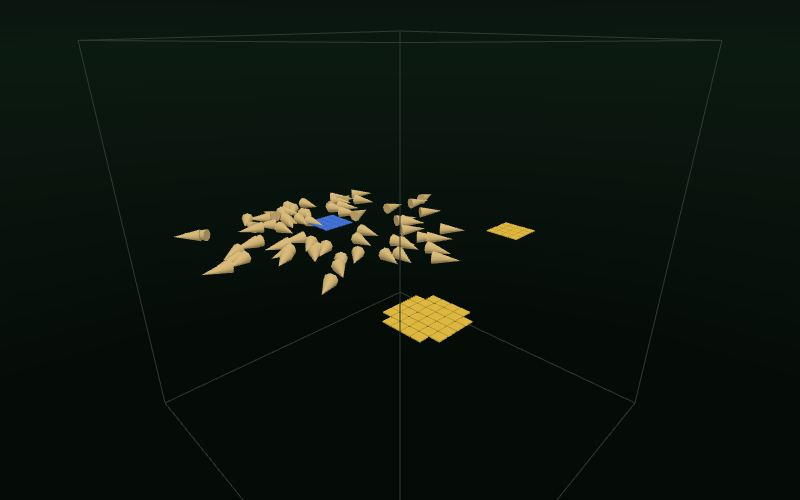
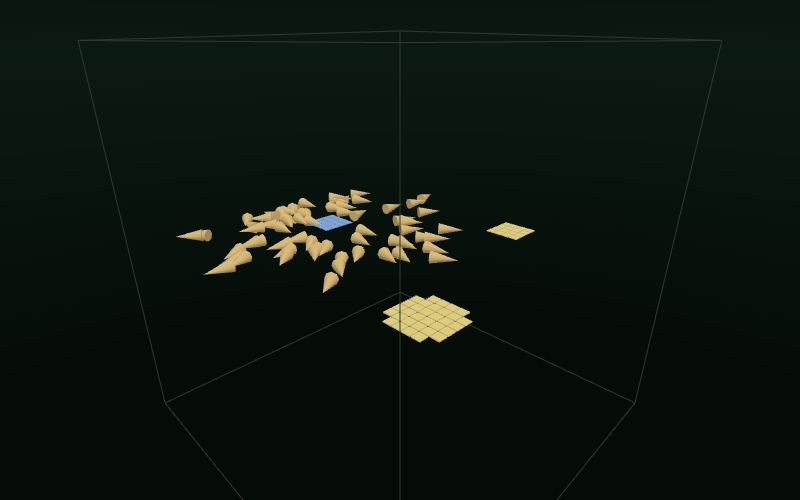
Examples use display; scenes lose show/color/palette/state/fill; docs rewritten around init/act/think/display
Ants no longer fakes its look with state fields: the nest and food regions are in init and the colors in displayAll. docs/script-api.md gains the hooks table and the configuration-versus-code rule; x-and-xall.md records state-from-init and think-returns-state; SPEC.md notes state is no longer declared in scenes.

Claude-Session: https://claude.ai/code/session_01Uuc6dwJ5Bjk5VjRCLHRDrp

diff --git a/examples/ants/ants.js b/examples/ants/ants.js
@@ -41,16 +41,27 @@ export const Ant = {
   },
 }
 
+// the ground: where the nest and the food are, and the scent that spreads over it
+const FOOD = [[11, 0, 8, 3], [5, 0, -13, 2.5]] // x, y, z, radius of each patch
+const NEST_RADIUS = 2.5
+
 export const Ground = {
-  actAll({ scent, food, nest }, p) {
+  init({ at }, p, ctx) {
+    const inside = (c, r) => at.minus(ctx.vec(c[0], c[1], c[2])).length() <= r
+    return { food: FOOD.some((f) => inside(f, f[3])) ? 5 : 0, scent: 0, nest: inside(NEST, NEST_RADIUS), delivered: 0 }
+  },
+
+  // what to draw: the nest blue, food gold, scent green (brighter when stronger); bare ground is not drawn
+  displayAll({ scent, food, nest }, p, ctx) {
+    const look = food.gt(0).where(1, scent.gt(0.05).where(scent.div(4).min(1).div(3).add(1 / 3), -1))
+    const shown = nest.where(0, look)
+    return { visible: shown.ge(0), color: ctx.colors.rampField(['#4f86f7', '#2f5a3c', '#7be495', '#ffd34a'], shown.max(0)) }
+  },
+
+  actAll({ scent, food }, p) {
     // scent spreads into neighbors, then evaporates a little
     const mixed = scent.zip(scent.neighborAverage(), (s, around) => (s + (around - s) * p.spread) * p.evaporation)
-    const left = food.map((f) => Math.max(0, f))
-
-    // what to draw: food is gold, scent is green (brighter when stronger), the nest is blue
-    const look = mixed.zip(left, (s, f) => (f > 0 ? 1 : s > 0.05 ? 1 / 3 + Math.min(1, s / 4) / 3 : -1))
-    const shown = look.zip(nest, (l, n) => (n ? 0 : l))
-    return { scent: mixed, food: left, look: shown.map((l) => Math.max(0, l)), mark: shown.map((l) => (l >= 0 ? 1 : 0)) }
+    return { scent: mixed, food: food.max(0) }
   },
 }
 

diff --git a/packages/core/src/sim.ts b/packages/core/src/sim.ts
@@ -149,7 +149,7 @@ export class Sim {
       if (ctrl.initAll) {
         const out = ctrl.initAll({ count: 1, probe: true }, this.params, ctx) as Record<string, ArrayLike<unknown>> | undefined
         values = Object.fromEntries(Object.entries(out ?? {}).map(([k, v]) => [k, v && typeof v === 'object' ? (v as { data?: ArrayLike<unknown> }).data?.[0] ?? v[0] : v]))
-      } else values = initResult(ctrl.init!({ index: 0, count: 1, x: 0, y: 0, z: 0 }, this.params, ctx))
+      } else values = initResult(ctrl.init!({ index: 0, count: 1, x: 0, y: 0, z: 0, at: new Vec3(0, 0, 0) }, this.params, ctx))
     } catch {
       return null
     }

diff --git a/examples/life2d/life.js b/examples/life2d/life.js
@@ -13,6 +13,11 @@ export default {
     return { alive: Float32Array.from({ length: count }, () => (ctx.random() < p.density ? 1 : 0)), age: new Float32Array(count) }
   },
 
+  // the same look as the 3D version, for every cell at once
+  displayAll({ alive, age }, p, ctx) {
+    return { visible: alive, color: ctx.colors.rampField(['#ff0d0d', '#0dff0d'], age.div(30)) }
+  },
+
   actAll({ alive, age }) {
     const crowd = alive.neighborSum()
     // born with exactly 3 neighbors, or alive with exactly 2 (comparisons give 1 or 0, so they combine like switches)

diff --git a/examples/epidemic/contagion.js b/examples/epidemic/contagion.js
@@ -19,6 +19,11 @@ export default {
     return { status, timer: new Float32Array(count), present: new Float32Array(count).fill(1) }
   },
 
+  // susceptible blue, infected red, recovered green (on the grid, `present` says which cells are drawn)
+  displayAll({ status, present }, p, ctx) {
+    return { visible: present, color: ctx.colors.rampField(['#6aa7ff', '#ff5b5b', '#7bd88f'], status.div(2)) }
+  },
+
   act({ self, neighbors }, p, ctx) {
     if (self.status === 0) {
       const sickNeighbors = neighbors.status.filter((s) => s === 1).length

diff --git a/examples/market/market.js b/examples/market/market.js
@@ -20,6 +20,11 @@ export default {
     return { cash: 60, goods: 2, ask: 10, bought: 0, used: 0 }
   },
 
+  // color by asking price: cheap blue, middling yellow, dear red
+  display({ self }, p, ctx) {
+    return { color: ctx.colors.ramp(['#4da3ff', '#ffd24d', '#ff5a4d'], self.ask / 40) }
+  },
+
   act({ self, neighbors }, p, ctx) {
     const producer = self.row % 3 === 0
     const makes = producer && ctx.tick % p.produceEvery === 0 ? 1 : 0

diff --git a/examples/life3d/life.js b/examples/life3d/life.js
@@ -16,6 +16,11 @@ export default {
     return { alive: ctx.random() < p.density ? 1 : 0, age: 0 }
   },
 
+  // only live cells are drawn: young ones red, old ones green
+  display({ self }, p, ctx) {
+    return { visible: self.alive, color: ctx.colors.ramp(['#ff0d0d', '#0dff0d'], self.age / 20) }
+  },
+
   act({ self, neighbors }) {
     const crowd = neighbors.alive.sum() // how many neighbors are alive
 

diff --git a/docs/script-api.md b/docs/script-api.md
@@ -1,6 +1,20 @@
 # Scene and script reference
 
-A project is two files: `scene.json` (data: what exists and how it looks) and one script (behavior: how things decide what to do). The workbench shows both, runs them live, and hot-reloads edits. This file is also what the LLM assistant is given, so keep it accurate.
+A project is two files: `scene.json` (the setup and the knobs: what sets of things exist, how many, the world they live in, the sliders (`params`), which measurements to chart, which models to load) and one script (what each thing is, does and looks like). The workbench shows both, runs them live, and hot-reloads edits. This file is also what the LLM assistant is given, so keep it accurate.
+
+**Where a thing goes.** If a person would tweak it while the simulation runs, sweep it, or search over it, it is configuration: put it in the scene, usually as a `param`. If it changes what an entity is or does, it is code: put it in the script. A grid's size and spacing are configuration; the starting density is a param that `init` reads; the rule, the starting state and the colors are code.
+
+**The hooks.** A script exports a controller (an object) with these functions, each for one entity, and optionally an `All` form for a whole set at once:
+
+| hook | when | returns |
+|---|---|---|
+| `init(self, p, ctx)` / `initAll` | once per entity, when it is made | its starting state: `{ alive: 1, age: 0 }` (free agents may add `position` and `velocity`). The fields `init` returns are the entity's state; no declaration needed |
+| `act(obs, p, ctx)` / `actAll` | every tick | what it does now: `{ steer, state, add, exchange }` (the `All` form returns whole new fields) |
+| `think(obs, p, ctx)` / `thinkAll` | every `think.every` ticks; may be slow and async | state to write, such as `{ goal: 'go east' }`, which `act` then reads as `self.goal` |
+| `display({ self }, p, ctx)` / `displayAll` | when a frame is drawn; read-only | how it looks: `{ visible, color }` |
+
+The per-entity form is the readable one and suits up to tens of thousands of entities. The `All` form gets and returns whole fields (columns) instead, runs without a function call per entity, and is for big grids and networks. It has limits: `Field` arithmetic only, single-number state, and no per-entity effects (steering, trades, resets). See `docs/decisions/x-and-xall.md`. `decide` is the old name of `act`, and `update` and `decideAll` of `actAll`; they still work.
+
 
 ## scene.json
 
@@ -53,7 +67,7 @@ Agents live in continuous 3D space. Each tick every agent's `act` is called and 
 "spawn": { "box": [[-5, 0, -5], [5, 0, 5]] }                        // or anywhere inside a box
 ```
 
-For full control, the script may export an `init` function that runs for each new entity: `init({ index, count }, p, ctx)` returns `{ position, velocity, state }`, for example `{ position: ctx.vec(index * 2, 0, 0) }` to line them up. `init` wins over `spawn`.
+For full control, the script's `init` runs for each new entity: `init({ index, count }, p, ctx)` returns `{ position, velocity, ...state }`, for example `{ position: ctx.vec(index * 2, 0, 0), energy: 10 }` to line them up and give each some energy. `init` wins over `spawn`.
 
 **Fences and reset.** A set may have a `fence`: `"fence": { "size": 30, "floor": -20 }` (`size` is the half-width of a box around the origin, `floor` the lowest height allowed). A fence changes nothing by itself. When an entity crosses it, the script's `onLeave({ self }, p, ctx)` runs once, and the usual thing to do there is `self.reset()`, which puts that entity back at its start (same rules as a new one) at the end of the tick. `self.outside` tells you whether it is beyond the fence right now. `self.reset()` also works anywhere else: in `act`, say, when an ant runs out of energy.
 
@@ -64,13 +78,13 @@ export default {
 }
 ```
 
-**Per-agent state (memory, brains).** Free agents may declare `state`: extra numbers each agent carries. Say what a field starts as and its type follows: `"energy": 10` is a number, `"hungry": false` a boolean, `"mood": "calm"` text. An object makes an array of numbers and says how it starts: `"weights": { "length": 108, "init": { "normal": 0.7 } }`. To spell a type out, use `"int"`, `"float"`, `"boolean"` or `"string"` (`{ "type": "int", "init": 3 }`) (`init` can be a number, `{ "normal": spread }` or `{ "uniform": [low, high] }`, drawn from the seeded generator). In `act`, `self.energy` is a number (or boolean, or text, as declared) and `self.weights` is a read-only array. To change state, return it: `{ steer, state: { energy: self.energy - 1, memory: [..5 numbers..] } }`. Like everything else, new state is applied after all agents have decided. State is saved by snapshots and copied by forks.
+**State (memory, brains).** An entity carries whatever state its `init` returns: `init(self, p, ctx) { return { energy: 10, hungry: false, mood: 'calm', weights: Float32Array.from({ length: 108 }, () => 0.7 * ctx.normal()) } }`. A number is a number, `true`/`false` a boolean, text is text, and an array of numbers is a field of that length. In `act`, `self.energy` is the value (and `self.weights` a read-only array). To change state, return it: `{ steer, state: { energy: self.energy - 1, memory: [..5 numbers..] } }`; new state is applied after every entity has acted. State is saved by snapshots and copied by forks. `ctx.random()` and `ctx.normal()` (a normal draw, spread 1) are seeded, so a scene and seed always start the same way. The older way still works: a `"state"` block in the scene (`"energy": 10`, or `{ "length": 108, "init": { "normal": 0.7 } }`), and it is also how to ask for a smaller number type on a very large grid (`"alive": "u8"` uses one byte a cell instead of eight). A field in the scene's `state` wins over the same name from `init`. If a script edit changes which fields `init` returns, the workbench restarts the simulation.
 
 `ctx.mlp([11, 5, 8])` makes a small neural network (tanh layers) whose `run(weights, inputs)` returns the outputs; the weights for that shape are 11×5+5 + 5×8+8 = 108 numbers. See `examples/neural`.
 
 **Choosing a behavior per agent.** A set runs one controller (its `type`, or `export default`). To let each agent pick, declare a text state field called `controller` (`"state": { "controller": "" }`): an agent whose field names a script export (`export const flee = {...}`) runs that one, and an empty field uses the set's own. A controller can switch itself by returning `state: { controller: 'flee' }`, and in the inspector the controller menu then sets the field for the one entity you clicked instead of the whole set. Naming an export that does not exist is reported once.
 
-**Trained models (ONNX).** A scene can name models: `"models": { "policy": { "url": "policy.onnx" } }` (`url` is a path next to the scene, a full URL, or a Hugging Face file, `hf:owner/repo/path/model.onnx`, with `@revision` after the repo name to pin one; `"device": "webgpu"` tries the GPU first). A controller runs one from `think`, or from `thinkAll(agents, p, ctx)`, which is called once for all the entities of its set that are due, so a whole crowd is one call: `const out = await ctx.model('policy').runBatch(agents.map(({ self }) => [self.x, self.z]))` gives one row of outputs per agent; return one decision per agent from `thinkAll` and read it as `self.decision` in `act`. Set `"think": { "every": 1 }` to run it every tick; the workbench's lockstep mode waits for it. A model takes one input of shape `[batch, width]`. A `url` of the form `ws://localhost:8765` is not a file but a process on a WebSocket (a Python policy server or trainer, `examples/remote-policy`): it gets the same batches and answers the same way, and the sets using it are marked not repeatable. Decisions are logged, so a run can be replayed without the model. See `examples/onnx-policy` and `docs/decisions/inference.md`.
+**Trained models (ONNX).** A scene can name models: `"models": { "policy": { "url": "policy.onnx" } }` (`url` is a path next to the scene, a full URL, or a Hugging Face file, `hf:owner/repo/path/model.onnx`, with `@revision` after the repo name to pin one; `"device": "webgpu"` tries the GPU first). A controller runs one from `think`, or from `thinkAll(agents, p, ctx)`, which is called once for all the entities of its set that are due, so a whole crowd is one call: `const out = await ctx.model('policy').runBatch(agents.map(({ self }) => [self.x, self.z]))` gives one row of outputs per agent; return one state object per agent from `thinkAll` (`{ dx, dz }`, fields `init` declared) and read it as `self.dx` in `act`. Set `"think": { "every": 1 }` to run it every tick; the workbench's lockstep mode waits for it. A model takes one input of shape `[batch, width]`. A `url` of the form `ws://localhost:8765` is not a file but a process on a WebSocket (a Python policy server or trainer, `examples/remote-policy`): it gets the same batches and answers the same way, and the sets using it are marked not repeatable. Decisions are logged, so a run can be replayed without the model. See `examples/onnx-policy` and `docs/decisions/inference.md`.
 
 **Cameras (for vision models).** A sensor of type `camera` gives a controller a small picture of what is around it, as `obs.<name>`: `"sensors": [{ "type": "camera", "name": "view", "size": 24, "radius": 18 }]` (`size` is pixels per side, default 32; `radius` is how far it sees, from the center to the edge). The picture is top-down and turned so that up is the way the agent is heading (north when it is still): every agent in range is a dot in its set's color, the agent itself is white with a tick showing forward, and ground outside the world's bounds is dark. It is drawn from the simulation's state when a script reads it, so it costs nothing when unused and is the same in every run. A picture has `width`, `height`, `get(x, y)` and `toPng()`. Show it to a model from `think`: `await ctx.ask('where is the food?', { json: true, images: [obs.view] })`. See `examples/vlm-scouts`.
 
@@ -86,18 +100,25 @@ export default {
     "spacing": 1.2,                       // distance between cell centers
     "edges": "wrap",                      // "wrap" (opposite edges touch) or "dead" (nothing beyond the edge)
     "neighborhood": "moore",              // "moore" (26 neighbors) or "von-neumann" (6)
-    "show": "alive",                      // state field whose non-zero cells are drawn
-    "color": "age",                       // optional state field that tints cells
-    "colorMax": 20,                       // value that maps to the end of the color range (low = red, high = green)
     "fade": 0                             // optional: ease cells in and out over this fraction of a tick (0 = instant, 1 = a whole tick)
   },
-  "state": { "alive": 0, "age": 0 },   // per-cell fields; the starting value gives the type (numbers, true/false, text)
-  "fill": { "field": "alive", "density": "$density", "within": 1 },  // random start: density of cells, within the central fraction (default 1 = everywhere)
   "controller": "life.js"
 }
 ```
 
-Grid shape, fill, and seed only take effect when the simulation is reset. Params (rule numbers, etc.) apply live.
+The cells' state, starting values and look come from the script: `init({ index, count, x, y, z, at }, p, ctx)` returns a cell's starting state (`x, y, z` is its place in the grid and `at` its place in the world as a vector, so a region is `at.minus(centre).length() < radius`; `initAll({ count }, p, ctx)` returns one array per field for every cell at once), and `display` / `displayAll` say how it looks:
+
+```js
+export default {
+  init(self, p, ctx) { return { alive: ctx.random() < p.density ? 1 : 0, age: 0 } },
+  act({ self, neighbors }) { /* ... */ },
+  display({ self }, p, ctx) { return { visible: self.alive, color: ctx.colors.ramp(['#ff0d0d', '#0dff0d'], self.age / 20) } },
+}
+```
+
+`visible` says whether a cell is drawn (every cell is by default), and `color` is `'#rrggbb'`, `[r, g, b]` between 0 and 1, or a `ctx.colors` helper: `ctx.colors.ramp(stops, t)` (a color along a list of stops, `t` from 0 to 1), `ctx.colors.hsl(h, s, l)`, `ctx.colors.hex('#48f')`. For big grids use `displayAll({ alive, age }, p, ctx)`, which returns whole fields: `{ visible: alive, color: ctx.colors.rampField(stops, age.div(20)) }`. `display` only reads, so it cannot affect the run; it is called when a frame is drawn, not every tick. Free agents and network nodes use `color` too (`visible` is only honored on lattice cells). The older scene settings (`show`, `color`, `colorMax`, `palette`, `fill`, `state`) still work where a script gives no `display`/`init`.
+
+Grid shape and seed only take effect when the simulation is reset. Params (rule numbers, etc.) apply live.
 
 ### Entity set: network of nodes
 
@@ -110,13 +131,13 @@ Grid shape, fill, and seed only take effect when the simulation is reset. Params
     "degree": 6,                          // average links per node
     "rewire": 0.08,                       // small worlds: share of links rewired at random
     "layout": "force",                    // how nodes are placed for drawing: "force", "circle" or "sphere"
-    "radius": 24,                         // size of the drawn layout
-    "color": "status", "colorMax": 2, "palette": ["#6aa7ff", "#ff5b5b", "#7bd88f"]   // tint nodes by a state field
+    "radius": 24                          // size of the drawn layout
   },
-  "state": { "status": 0, "timer": 0 },
-  "fill": { "field": "status", "value": 1, "count": 3 }   // exactly 3 random nodes start with status 1
+  "controller": "contagion.js"
 }
 ```
+
+Starting state is the script's `init` (a node at a time) or `initAll` (all at once: `initAll({ count }, p, ctx)` returns an array per field, so "exactly 3 random nodes start infected" is a few lines in the script), and the colors are `display` / `displayAll`, as for lattices.
 
 A node's `neighbors` are the nodes it is linked to. `act` works exactly as it does for lattice cells: it reads `self` and `neighbors` (`neighbors.status` is a list of numbers) and returns the node's **new state**, applied for everyone at once. That is why one script can run on a grid and on a graph (see `examples/epidemic` and `examples/epidemic-grid`). `self.degree` is the number of links. Positions come from the layout and are only for drawing.
 
@@ -222,7 +243,7 @@ export const metrics = {
 
 `self` has `x, y, z` (grid coordinates), `position` (a vector), and every state field as a number: `self.alive`.
 
-**Big grids: `actAll` instead of `act`.** Every hook has a per-entity form and may have a whole-set form named with `All` (`init`/`initAll`, `act`/`actAll`, `think`/`thinkAll`, `display`/`displayAll`; see `docs/decisions/x-and-xall.md`). `decide` is the old name of `act` and still works. The `All` form is faster but limited: whole fields in and out, `Field` arithmetic only, single-number state, no per-entity effects. A script may export `actAll(fields, params)` instead of `act` (the old names `decideAll` and `update` still work). It runs once per tick, gets every state field as a whole (`{ alive, age }`) and returns the new fields. Fields have `neighborSum()`, `neighborAverage()`, `neighborMax()`, arithmetic and comparisons that take a number or another field (`add`, `sub`, `mul`, `div`, `min`, `max`, `eq`, `ne`, `lt`, `le`, `gt`, `ge`, `and`, `or`, `not`, `clamp`, and `where(a, b)` to pick between two values), `map(fn)`, `zip(other, fn)`, `sum()` and `average()`; each makes a new field and none changes the original. Prefer the arithmetic over `map`/`zip` on big grids: it runs without a function call per cell, and a chain of it is worked out in one pass. Use it for grids above about 50,000 cells (a 1000×1000 flat grid works). A lattice with a dimension of 1, like `[200, 200, 1]`, is flat and its cells have no neighbors along that axis. Networks take `actAll` too: a field's `neighborSum()`, `neighborAverage()` and `neighborMax()` follow the links, however many each node has (a hub with hundreds of links is fine), and only single-number state fields are passed in.
+**Big grids: `actAll` instead of `act`.** A script may export `actAll(fields, params)` instead of `act` (the old names `decideAll` and `update` still work). It runs once per tick, gets every state field as a whole (`{ alive, age }`) and returns the new fields. Fields have `neighborSum()`, `neighborAverage()`, `neighborMax()`, arithmetic and comparisons that take a number or another field (`add`, `sub`, `mul`, `div`, `min`, `max`, `eq`, `ne`, `lt`, `le`, `gt`, `ge`, `and`, `or`, `not`, `clamp`, and `where(a, b)` to pick between two values), `map(fn)`, `zip(other, fn)`, `sum()` and `average()`; each makes a new field and none changes the original. Prefer the arithmetic over `map`/`zip` on big grids: it runs without a function call per cell, and a chain of it is worked out in one pass. Use it for grids above about 50,000 cells (a 1000×1000 flat grid works). A lattice with a dimension of 1, like `[200, 200, 1]`, is flat and its cells have no neighbors along that axis. Networks take `actAll` too: a field's `neighborSum()`, `neighborAverage()` and `neighborMax()` follow the links, however many each node has (a hub with hundreds of links is fine), and only single-number state fields are passed in.
 
 ```js
 export default {
@@ -235,9 +256,9 @@ export default {
 
 ### Slow thinking: asking a language model
 
-A controller may also have an async `think(obs, p, ctx)`, run for each entity every `think.every` ticks (set on the entity set: `"think": { "every": 120 }`). It looks around, may `await ctx.ask(prompt, { json: true })` (a language model, reached through the local server and `ANTHROPIC_API_KEY`; `{ images: [obs.view] }` shows it a camera picture), and returns a decision of any JSON shape. The fast `act` reads it as `self.decision` (undefined until the first answer). In the workbench thinking runs beside the clock, so a slow model never stalls the sim; answers land when they arrive. A bar above the view appears for scenes that think: switch to **lockstep** (the clock waits for every answer before each tick, so answers land on the same ticks every run), **Save log** to download every decision, and **Replay log…** to restart and play a saved log back without calling the model.
+A controller may also have an async `think(obs, p, ctx)`, run for each entity every `think.every` ticks (set on the entity set: `"think": { "every": 120 }`). It looks around, may `await ctx.ask(prompt, { json: true })` (a language model, reached through the local server and `ANTHROPIC_API_KEY`; `{ images: [obs.view] }` shows it a camera picture), and returns what it decided as state: `return { dx: 1, dz: -1 }` writes those fields (declared by `init`, which also gives them a first value) and the fast `act` reads them as `self.dx`. (A result that is not state is kept as `self.decision`, the older way.) In the workbench thinking runs beside the clock, so a slow model never stalls the sim; answers land when they arrive. A bar above the view appears for scenes that think: switch between **async** (the simulation keeps running and answers land when they arrive) and **wait** (the clock waits for every answer before each tick, so answers land on the same ticks every run), **Save log** to download every decision, and **Replay log…** to restart and play a saved log back without calling the model.
 
-Every decision is logged with the tick it took effect (`sim.decisionLog`). `sim.replay(log)` reruns without the model: each decision lands on the same tick, so the run is identical. See `examples/llm-wanderers`.
+Every answer is logged with the tick it took effect (`sim.decisionLog`), whatever its shape. `sim.replay(log)` reruns without the model: each decision lands on the same tick, so the run is identical. See `examples/llm-wanderers`.
 
 ### Creatures
 

diff --git a/docs/decisions/x-and-xall.md b/docs/decisions/x-and-xall.md
@@ -12,9 +12,19 @@ The hooks are `init`, `act`, `think` and `display`. `act` was `decide`; the old 
 
 | per entity | whole set | status |
 |---|---|---|
+| `init` | `initAll` | done for lattices, networks and free agents (`initAll` for lattices and networks) |
 | `act` (was `decide`) | `actAll` (was `decideAll`, before that `update`) | `actAll` for lattices and networks; the old names stay as aliases. Free agents: not yet |
-| `think` | `thinkAll` | done (batched model calls) |
-| `init` | `initAll` | `init` for free agents; lattices and networks next; `initAll` after |
-| `display` | `displayAll` | planned (SPEC.md section on display) |
+| `think` | `thinkAll` | done (batched model calls); returns state |
+| `display` | `displayAll` | done for lattice cells, network nodes and free agents (`displayAll`: lattices and networks); `visible` only on lattice cells |
+
+## State comes from `init`
+
+A set's state is the fields its `init` returns, with kind and length taken from the value (number, boolean, text, array of numbers). The scene needs no `state` block and no type words. To find the fields before the columns exist, the sim calls `init` (or `initAll` with a count of 1) once on a throwaway random generator, so the run's own random numbers are untouched. An explicit `state` in the scene still works and wins; it is also the way to ask for a small number type (`"u8"`) on a very large grid, where eight bytes a cell would cost memory. If a script edit changes which fields `init` returns, the workbench restarts the sim. Rejected: running `act` once to learn the output shape, because `act` reads `self.alive` before it has ever returned anything, and a `0` cannot be told from `false`.
+
+`think` follows the same idea: it returns state. An object whose keys are all state fields is written to them (logged and replayed as before); any other result is kept as `self.decision`, the older way.
+
+## Configuration and code
+
+The scene is the setup and the knobs (what sets exist, how many, the world, `params`, metrics, models). The script is what each thing is (`init`), does (`act`, `think`) and looks like (`display`). Test: if a person would tweak it while it runs, sweep it or search over it, it is configuration (usually a `param`); if it changes what an entity is or does, it is code. The old scene fields `state`, `fill`, `lattice.show/color/colorMax/palette` and `network.color/colorMax/palette` still work for scripts that give no `init` or `display`.
 
 **Consequences.** One rule to learn and to put in the docs and the assistant's prompt. `update` is deprecated but kept so existing scripts keep running. A "this set is big, use `xAll`" hint can be given by the workbench for any hook.

diff --git a/MILESTONES.md b/MILESTONES.md
@@ -26,6 +26,7 @@ Also built, outside the original list:
 
 - The site: a home page with live demos, a gallery with pictures and tags, share links (held until you approve the script), a JSON tree editor, a timeline scrubber, a thinking bar, and a non-repeatable flag (`docs/decisions/site.md`).
 - Trained models and other processes as controllers: ONNX files, Hugging Face addresses, and Python servers over WebSockets, all through one `Model` interface with logged, replayable decisions (`docs/decisions/inference.md`, `remote.md`); a camera sensor for vision models.
+- Scripts now carry what a thing is and looks like: hooks `init`, `act`, `think`, `display` with `All` forms for big sets, state inferred from `init`, `think` returning state, colors from `display` (`docs/decisions/x-and-xall.md`). The scene is down to setup and knobs.
 - Relation tables (`ctx.relations`), per-agent controller choice, whole-network `update` rules, glTF part visuals, an MJCF importer.
 - A standard library in its own package (`packages/stdlib`) with generated docs, and an in-app Docs tab.
 - `spawn`, `init`, fences with `onLeave`, and `self.reset()`; inferred state types (number, boolean, string); several entity sets per scene; controllers chosen by named export.

diff --git a/docs/stdlib.md b/docs/stdlib.md
@@ -174,6 +174,46 @@ The closest agent, or null if the group is empty.
 isEmpty(): boolean
 ```
 
+## Rgb
+
+A color as red, green and blue between 0 and 1.
+
+## Colors
+
+Colors for `display`: a number turned into a color, or a whole field of numbers into a color per cell.
+
+### `Colors.hex`
+
+```ts
+static hex(c: string): Rgb
+```
+
+`'#4f86f7'` or `'#48f'` as red, green and blue between 0 and 1. Anything else is white.
+
+### `Colors.hsl`
+
+```ts
+static hsl(h: number, s: number, l: number): Rgb
+```
+
+Hue, saturation and lightness, each between 0 and 1 (hue goes around the color wheel).
+
+### `Colors.ramp`
+
+```ts
+static ramp(stops: string[], t: number): Rgb
+```
+
+Where `t` (0 to 1) falls along a list of colors, blending between neighbors: `Colors.ramp(['#4f86f7', '#7be495'], age / 20)`.
+
+### `Colors.rampField`
+
+```ts
+static rampField(stops: string[], t: Field | ArrayLike<number>):
+```
+
+`ramp` for a whole field at once: a color for every cell, for `displayAll`.
+
 ## NeighborTable
 
 For each cell, the rows of its neighbors: `count[row]` of them, starting at `start[row]` in `nbr` (a network, where degrees

diff --git a/SPEC.md b/SPEC.md
@@ -85,6 +85,7 @@ All entity state is stored **columnar** (structure-of-arrays). This is a core de
 
 - Entities with the same component set share an **archetype table** of typed-array columns. An entity is an index into its table.
 - Component schemas declare typed fields: scalar numbers (`f32`, `f64`, `i32`, `u8`...), fixed vectors, enums, entity refs, strings and arbitrary JSON.
+- In the implemented scene format, a set's state fields are not declared in the scene: they are what the script's `init` returns, and a type is only given (as an optional `"state"` entry) to save memory on very large grids. See `docs/decisions/x-and-xall.md`.
 - Spawn and despawn use dense arrays with swap-remove or a free list. Ids carry a generation counter so a stale reference cannot silently address a different entity.
 - A table may declare a **shape** (for example `[1000, 1000]`). Then adjacency is implicit index arithmetic and costs no storage. This is how a million-cell Life lattice is cheap. "A patch is an entity" remains true at the API level.
 - A spatial hash index can be built over a table's transform columns.
